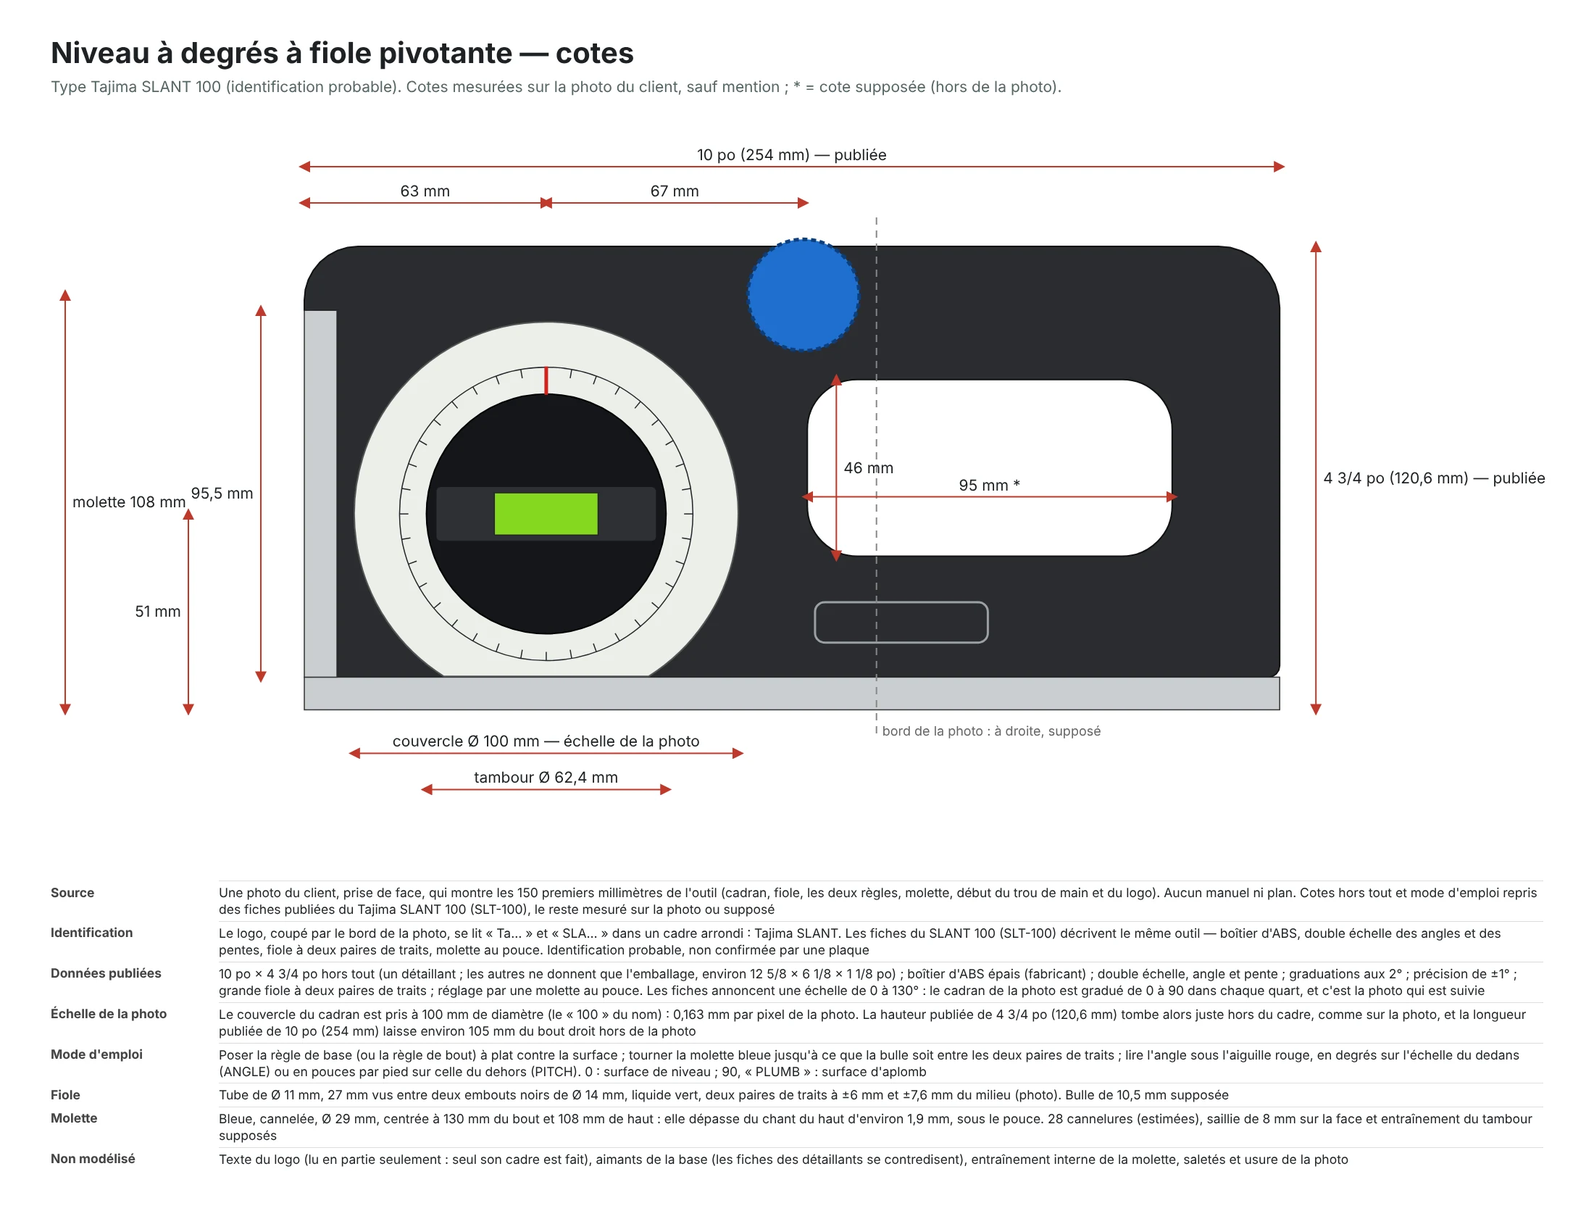
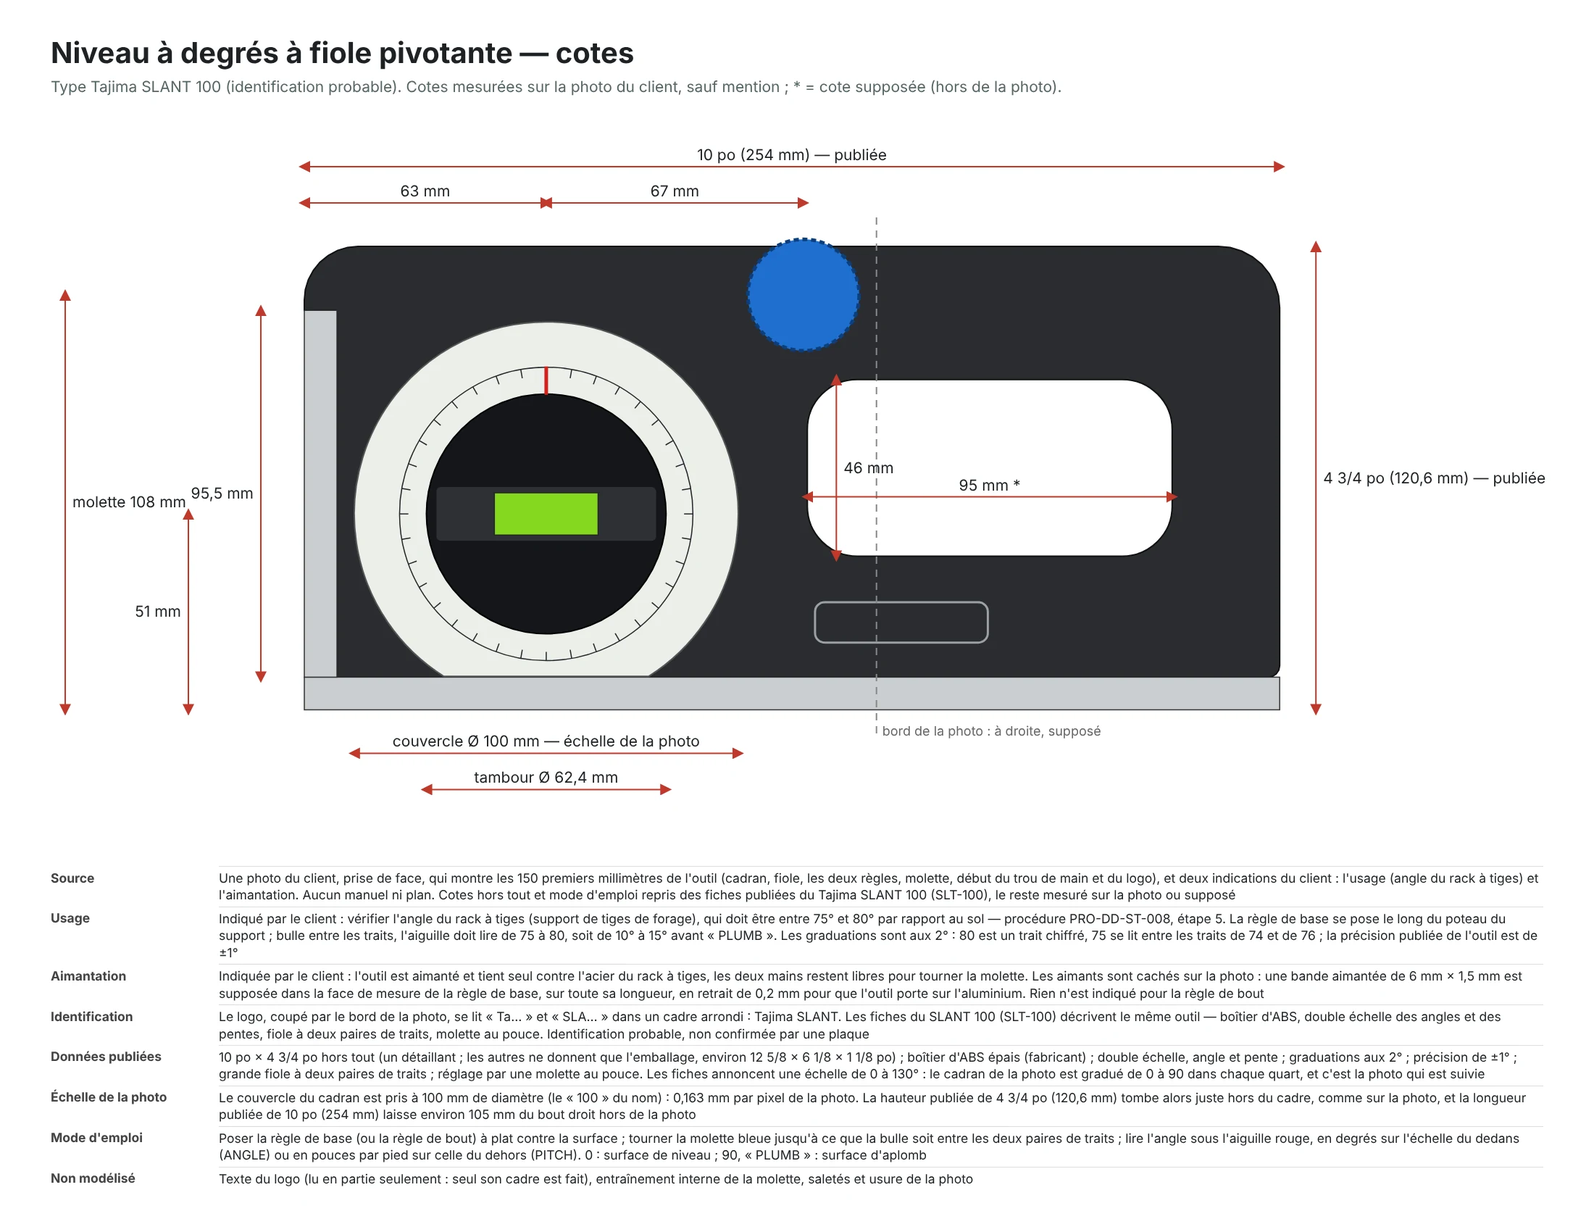
Niveau à degrés : usage au rack à tiges (75° à 80°) et base aimantée
Deux indications du client. L'outil sert à vérifier l'angle du rack à tiges
(support de tiges de forage), qui doit être entre 75° et 80° — la plage de la
procédure PRO-DD-ST-008, étape 5. Et il est aimanté : il tient seul contre
l'acier du rack.

Modèle : bande aimantée de 6 × 1,5 mm dans un logement de la face de mesure de
la règle de base (repère 9), en retrait de 0,2 mm ; l'aimantation est indiquée
par le client, la forme et la place sont supposées (cachées sur la photo) et
signalées. RACK (75, 80, pose à 78°) et verdictRack() dans le modèle.

Fonction « Mesurer » : « Poser sur le rack à tiges » penche la surface à 78°,
comme le support de la scène d'installation ; panneau ouvert, la plage est en
vert sur le cadran, bordée de rouge pâle (repère visuel, absent de l'outil) ;
bulle centrée, le panneau dit si l'angle lu est conforme, trop couché ou trop
debout, et reste neutre quand l'outil n'est manifestement pas sur le rack ;
lien vers la procédure du rack ; mode d'emploi récrit pour le rack.

Fiche (usage, aimantation, repère 9), page des cotes P02, index, README et
contrôles (plage du rack, bande en retrait de la face de mesure).

Claude-Session: https://claude.ai/code/session_015N4WsssJZ8LhHWCi7yY3si

Changed region(s): [[0.1236, 0.6859, 0.9582, 0.9665], [0.0309, 0.6859, 0.0927, 0.9665]]

diff --git a/src/ui/features/niveau-degres.js b/src/ui/features/niveau-degres.js
@@ -10,15 +10,26 @@
 //   tourne la molette à la place de l'utilisateur.
 // - Sur un téléphone, « Suivre le téléphone » lit ses capteurs d'inclinaison : le téléphone
 //   tenu debout remplace l'outil, sa tranche du bas tient lieu de règle de base.
+// - Usage indiqué par le client : vérifier l'angle du rack à tiges, entre 75° et 80°
+//   (procédure PRO-DD-ST-008 du support de tiges de forage, étape 5). Panneau ouvert, la
+//   plage est en vert sur le cadran (repère visuel, absent de l'outil) et le panneau dit si
+//   l'angle lu convient ; « Poser sur le rack » penche la surface comme le support de la
+//   scène d'installation. L'outil est aimanté : il tient seul contre l'acier du rack.
 //
 // Les cotes, la place de la bulle et l'angle lu viennent du modèle
 // (src/models/niveau-a-degres/index.js) ; ce module ne fait que l'interface.
 import * as THREE from 'three';
 import './niveau-degres.css';
-import { L, T, CADRAN, MOLETTE, FIOLE, RAPPORT, lecture, bulle, placerBulle, regler, mobiles } from '../../models/niveau-a-degres/index.js';
+import { L, T, CADRAN, MOLETTE, FIOLE, RAPPORT, RACK, lecture, bulle, placerBulle, regler, mobiles, verdictRack } from '../../models/niveau-a-degres/index.js';
 
 const ID = 'niveau-degres';
 const EQ = 'niveau-a-degres';
+/** Équipement et page de la procédure du rack à tiges (étape 5 : vérifier l'angle). */
+const RACK_EQ = 'rack-tiges-dd';
+const RACK_PAGE = '#rack-tiges-dd.P02';
+const PLAGE = `${RACK.min}° à ${RACK.max}°`;
+/** Sous cet angle lu (degrés), l'outil n'est manifestement pas sur le rack : le verdict reste neutre. */
+const LOIN = 45;
 const MM = 0.001;
 const RAD = Math.PI / 180;
 /** La bulle est entre les traits à moins de cet écart du milieu (mm) : jeu entre la bulle et la paire de traits du dedans. */
@@ -47,6 +58,7 @@ export default {
     let racine = null; // modèle affiché (racine), ou null hors de la page du niveau
     let pieces = null; // pièces mobiles : { tambour, fiole, molette, bulle }
     let surface = null; // bande de la surface mesurée
+    let zone = null; // plage du rack à tiges, en vert sur le cadran
     let eclate = 0;
     let bx = 0; // place affichée de la bulle le long de la fiole (mm)
     let image = 0; // requestAnimationFrame en cours
@@ -69,6 +81,7 @@ export default {
         <b class="nvd-deg mono" data-nvd="deg">0,0°</b>
         <span class="nvd-pente" data-nvd="pente"></span>
         <span class="nvd-bulle" data-nvd="bulle" role="status"></span>
+        <span class="nvd-rack" data-nvd="rack"></span>
       </div>
       <div class="nvd-champ" data-nvd="champ-pente">
         <label for="nvd-pente">Pente de la surface mesurée</label>
@@ -87,6 +100,7 @@ export default {
       <div class="nvd-actions">
         <button type="button" class="btn primary" data-nvd="centrer">Centrer la bulle</button>
         <button type="button" class="btn" data-nvd="face">Cadran de face</button>
+        <button type="button" class="btn" data-nvd="poser" title="Pencher la surface à ${RACK.pose}°, comme le support de tiges installé">Poser sur le rack à tiges</button>
         <button type="button" class="btn" data-nvd="zero">Remettre à zéro</button>
       </div>
       <div class="nvd-capteur" data-nvd="zone-capteur" hidden>
@@ -94,10 +108,12 @@ export default {
         <p data-nvd="capteur-note">Tenez le téléphone debout, sa tranche du bas posée sur la surface : il remplace la règle de base.</p>
       </div>
       <ol class="nvd-emploi">
-        <li>Posez la règle de base sur la surface : ici, penchez la surface.</li>
+        <li>Posez la règle de base sur le poteau du rack à tiges : elle est aimantée, l'outil tient seul contre l'acier et les deux mains restent libres. Ici, penchez la surface ou choisissez « Poser sur le rack à tiges ».</li>
         <li>Tournez la molette bleue jusqu'à ce que la bulle soit entre les deux paires de traits. Dans la vue 3D, tirez la molette ou la fiole.</li>
         <li>Lisez l'angle sous l'aiguille rouge : degrés au-dedans (ANGLE), pouces par pied au-dehors (PITCH). 0 : de niveau ; 90, « PLUMB » : d'aplomb.</li>
-      </ol>`;
+        <li>Rack à tiges : l'aiguille doit être dans la zone verte, entre ${RACK.min}° et ${RACK.max}° (graduations aux 2° : ${RACK.min} se lit entre 74 et 76).</li>
+      </ol>
+      <p class="nvd-source" data-nvd="source">Plage de ${PLAGE} : procédure du support de tiges de forage, étape 5. <button type="button" class="nvd-lien" data-nvd="procedure">Voir la procédure du rack à tiges ›</button></p>`;
     const $ = (nom) => el.querySelector(`[data-nvd="${nom}"]`);
     const cPente = el.querySelector('#nvd-pente');
     const cCadran = el.querySelector('#nvd-cadran');
@@ -117,6 +133,18 @@ export default {
       etatBulle.textContent = plat ? 'Outil à plat : redressez-le pour mesurer une pente.'
         : centree ? `Bulle entre les traits : la surface est à ${fr(l.deg)}°.`
           : `Bulle ${Math.abs(b.x) >= b.course - 0.01 ? 'en butée' : 'décentrée'} : tournez la molette (écart de ${fr(Math.abs(b.ecart))}°).`;
+      // Rack à tiges : l'angle ne vaut que bulle entre les traits.
+      const rack = $('rack');
+      // Loin de la plage (outil à l'horizontale, autre mesure) : pas d'alerte, l'outil n'est pas sur le rack.
+      const v = !centree || plat ? 'attente' : l.deg < LOIN ? 'loin' : verdictRack(l.deg);
+      rack.dataset.etat = v;
+      rack.textContent = `Rack à tiges, ${PLAGE} : ${{
+        attente: 'centrez la bulle pour vérifier',
+        loin: 'posez l\'outil sur le poteau du rack',
+        conforme: `conforme (${fr(l.deg)}°)`,
+        couche: `trop couché (${fr(l.deg)}°, moins de ${RACK.min}°)`,
+        debout: `trop debout (${fr(l.deg)}°, plus de ${RACK.max}°)`,
+      }[v]}.`;
       if (document.activeElement !== cPente) cPente.value = String(etat.pente);
       if (document.activeElement !== nPente) nPente.value = String(Math.round(etat.pente * 10) / 10);
       if (document.activeElement !== cCadran) cCadran.value = String(etat.cadran);
@@ -137,6 +165,41 @@ export default {
       m.raycast = () => {}; // ni survol ni clic
       return m;
     }
+
+    /**
+     * Plage du rack à tiges sur le cadran : secteurs verts translucides aux quatre endroits où
+     * l'aiguille lit de 75° à 80° (de part et d'autre de chaque « PLUMB »), bordés de rouge pâle
+     * (trop couché, trop debout). Repère visuel posé sur le couvercle, absent de l'outil ;
+     * montré tant que le panneau de mesure est ouvert.
+     */
+    function creerZone() {
+      const g = new THREE.Group();
+      const teinte = (color, opacity) => new THREE.MeshBasicMaterial({ color, transparent: true, opacity, depthWrite: false, toneMapped: false, side: THREE.DoubleSide });
+      const vert = teinte(0x1fb85a, 0.5), rouge = teinte(0xe03a2e, 0.2);
+      const r0 = (CADRAN.rTrou + 0.4) * MM, r1 = (CADRAN.rArc + 4.6) * MM;
+      /** Secteurs où l'aiguille lit de v0 à v1 : la lecture v est à l'angle polaire 90 − v et à ses trois symétriques. */
+      const secteurs = (v0, v1, mat) => {
+        for (const debut of [90 - v1, 90 + v0, 270 - v1, 270 + v0]) {
+          const m = new THREE.Mesh(new THREE.RingGeometry(r0, r1, 12, 1, debut * RAD, (v1 - v0) * RAD), mat);
+          m.raycast = () => {}; // ni survol ni clic
+          g.add(m);
+        }
+      };
+      // Comme dans la scène d'installation du rack : permis en vert, trop couché et trop debout en rouge pâle.
+      secteurs(RACK.min, RACK.max, vert);
+      secteurs(RACK.min - 10, RACK.min, rouge);
+      secteurs(RACK.max, 90, rouge);
+      const c = CADRAN.couvercle;
+      g.position.set(CADRAN.x * MM, CADRAN.y * MM, (T / 2 + c.jour + c.ep + 0.15) * MM);
+      g.userData.stepOnly = true; // hors du cadrage du modèle
+      g.visible = false;
+      return g;
+    }
+    const montrerZone = () => {
+      if (!zone) return;
+      const v = ctx.ui.sidePanel.has(ID);
+      if (zone.visible !== v) { zone.visible = v; ctx.viewer.invalidate(); }
+    };
 
     /** Pose le modèle selon l'état ; la bulle suit en glissant (boucle). */
     function poser({ sec = false } = {}) {
@@ -203,7 +266,9 @@ export default {
       pieces = mobiles(racine);
       if (!pieces.tambour || !pieces.fiole || !pieces.bulle) { racine = null; return; }
       surface = creerSurface();
-      racine.add(surface);
+      zone = creerZone();
+      racine.add(surface, zone);
+      montrerZone();
       poser({ sec: true });
     }
 
@@ -211,7 +276,7 @@ export default {
       if (image) cancelAnimationFrame(image);
       image = 0;
       anim = null;
-      racine = pieces = surface = null;
+      racine = pieces = surface = zone = null;
       capteur(false);
     }
 
@@ -228,6 +293,15 @@ export default {
     cCadran.addEventListener('input', () => { anim = null; etat.cadran = Number(cCadran.value); poser(); });
     $('centrer').addEventListener('click', centrer);
     $('face').addEventListener('click', face);
+    // Rack à tiges : la surface penchée comme le support installé ; il reste à centrer la bulle et à lire.
+    $('poser').addEventListener('click', () => {
+      anim = null;
+      if (etat.capteur) capteur(false);
+      etat.pente = RACK.pose;
+      poser();
+      if (actif()) ctx.viewer.frame();
+    });
+    $('procedure').addEventListener('click', () => ctx.go(RACK_PAGE));
     $('zero').addEventListener('click', () => {
       anim = null;
       etat.pente = 0;
@@ -377,9 +451,15 @@ export default {
       onClick: () => (ctx.ui.sidePanel.owner === ID ? ctx.ui.sidePanel.close() : ouvrir()),
     });
     bouton.hidden = true;
-    ctx.on('sidepanel', ({ open, owner }) => { if (owner === ID) bouton.setAttribute('aria-pressed', String(open)); });
+    ctx.on('sidepanel', ({ open, owner }) => {
+      if (owner === ID) bouton.setAttribute('aria-pressed', String(open));
+      // Panneau ouvert, replié, recouvert par la fiche ou repris par un autre mode : la zone verte suit.
+      montrerZone();
+    });
     ctx.on('view-state', ({ explode }) => { eclate = explode || 0; });
     ctx.on('equipment', ({ id }) => {
+      // Le lien vers la procédure n'est offert que si le rack à tiges est au catalogue.
+      $('source').hidden = !ctx.index.some((e) => e.id === RACK_EQ);
       if (id === EQ) return;
       etat.pente = 0;
       etat.cadran = 0;

diff --git a/src/models/niveau-a-degres/index.js b/src/models/niveau-a-degres/index.js
@@ -13,9 +13,16 @@
 // publiée). Tout le bout droit (fin du trou de main, coins), l'épaisseur, le
 // dos et l'entraînement du tambour par la molette sont supposés et signalés.
 //
+// Indiqué par le client : l'outil sert à vérifier l'angle du support de tiges
+// de forage (rack à tiges, équipement « rack-tiges-dd »), qui doit être entre
+// 75° et 80° (procédure PRO-DD-ST-008, étape 5), et il est aimanté : il tient
+// seul contre l'acier du rack. Les aimants sont cachés sur la photo : une bande
+// aimantée dans la face de mesure de la règle de base est supposée.
+//
 // L'outil fonctionne (src/ui/features/niveau-degres.js) : regler() pose
 // l'outil sur une pente, tourne le tambour et la molette ; bulle() donne la
-// place de la bulle dans la fiole ; lecture() l'angle sous l'aiguille.
+// place de la bulle dans la fiole ; lecture() l'angle sous l'aiguille ;
+// verdictRack() dit si l'angle lu convient au rack à tiges.
 //
 // Repère de l'outil, en millimètres : x le long de la règle de base (0 au bout
 // du cadran), y vers le haut (0 sous la face de mesure), z en travers (0 au
@@ -37,6 +44,18 @@ export const H = 4.75 * IN;
 export const T = 25;
 /** Règles d'aluminium : largeur vue de face (photo), rainures près de l'arête (place et taille estimées). */
 export const REGLE = { ep: 8.5, rainures: [1.4, 2.6, 3.8], creux: 0.45, haut: 104 };
+/**
+ * Bande aimantée de la règle de base : l'aimantation est indiquée par le client,
+ * la forme, la taille et la place sont supposées (cachées sur la photo). En
+ * retrait de la face de mesure, pour que l'outil porte sur l'aluminium.
+ */
+export const AIMANT = { large: 6, ep: 1.5, retrait: 0.2 };
+/**
+ * Usage indiqué par le client : angle du rack à tiges, entre 75° et 80° par
+ * rapport au sol (procédure PRO-DD-ST-008, étape 5) ; `pose` : angle du support
+ * dans la scène d'installation du site (src/models/rack-tiges-dd/support.js).
+ */
+export const RACK = { min: 75, max: 80, pose: 78 };
 /** Coins du boîtier : au-dessus de la règle de bout (photo), puis ceux du bout droit (supposés). */
 export const COINS = { bout: 14, haut: 16, bas: 3 };
 /**
@@ -266,15 +285,18 @@ function boitier(S) {
  * Section d'une règle (mm) : u en travers de l'épaisseur, v depuis la face de
  * mesure ; trois rainures près de l'arête, sur les deux faces (dos supposé pareil).
  */
-function sectionRegle() {
+function sectionRegle(aimant = false) {
   const d = T / 2, c = REGLE.creux, l = 0.3;
   const face = (s) => REGLE.rainures.flatMap((v) => [[s * d, v - l], [s * (d - c), v - l / 3], [s * (d - c), v + l / 3], [s * d, v + l]]);
-  return [[-d, 0], [d, 0], ...face(1), [d, REGLE.ep], [-d, REGLE.ep], ...face(-1).reverse()];
+  // Logement de la bande aimantée, au milieu de la face de mesure.
+  const a = AIMANT.large / 2;
+  const logement = aimant ? [[-a, 0], [-a, AIMANT.ep], [a, AIMANT.ep], [a, 0]] : [];
+  return [[-d, 0], ...logement, [d, 0], ...face(1), [d, REGLE.ep], [-d, REGLE.ep], ...face(-1).reverse()];
 }
 
 /** Repère 2 : règle de base, sur toute la longueur ; sa face du dessous est la face de mesure. */
 function regleBase(S) {
-  const m = S.extrude(mm(sectionRegle()), L * MM, alu());
+  const m = S.extrude(mm(sectionRegle(true)), L * MM, alu());
   // Section (u, v) → (z, y) ; extrusion le long de x.
   m.quaternion.setFromRotationMatrix(new THREE.Matrix4().makeBasis(new THREE.Vector3(0, 0, -1), new THREE.Vector3(0, 1, 0), new THREE.Vector3(1, 0, 0)));
   m.position.set((L / 2) * MM, 0, 0);
@@ -289,6 +311,12 @@ function regleBout(S) {
   m.quaternion.setFromRotationMatrix(new THREE.Matrix4().makeBasis(new THREE.Vector3(0, 0, 1), new THREE.Vector3(1, 0, 0), new THREE.Vector3(0, 1, 0)));
   m.position.set(0, (REGLE.ep + long / 2) * MM, 0);
   return S.group(m);
+}
+
+/** Repère 9 : bande aimantée, dans son logement sous la règle de base (forme supposée). */
+function aimant(S) {
+  const a = AIMANT, h = a.ep - a.retrait;
+  return S.group(S.box(L * MM, h * MM, (a.large - 0.2) * MM, 'blackOxide', { pos: P(L / 2, a.retrait + h / 2, 0) }));
 }
 
 /** Repère 4 : cadran fixe, plaque blanche imprimée, à méplat, autour du tambour (origine au centre du cadran). */
@@ -391,6 +419,16 @@ export function lecture(cadran) {
 }
 
 /**
+ * Angle lu (degrés, 0 à 90) comparé à la plage du rack à tiges (RACK) :
+ * 'conforme', 'couche' (moins de 75° : trop couché) ou 'debout' (plus de 80°).
+ * La plage est fermée : 75° et 80° conviennent.
+ */
+export function verdictRack(deg) {
+  const e = 1e-9;
+  return deg < RACK.min - e ? 'couche' : deg > RACK.max + e ? 'debout' : 'conforme';
+}
+
+/**
  * Place de repos de la bulle (mm, repère de la fiole : x le long du tube) pour
  * la verticale `haut` ([x, y, z] unitaire, repère de l'outil) et le tambour
  * tourné de `cadran` degrés. La bulle monte le long de la paroi en tonneau
@@ -454,6 +492,7 @@ export function P01(api) {
   api.part('1', boitier(S), [0, 0, 0]);
   api.part('2', regleBase(S), [0, -0.03, 0]);
   api.part('3', regleBout(S), [-0.03, 0, 0]);
+  api.part('9', aimant(S), [0, -0.055, 0]);
   // Pièces concentriques : les bulles de repère sont écartées du milieu, où se lit la bulle de la fiole.
   const pol = (r, a, z) => ({ labelAt: P(r * Math.cos(a * RAD), r * Math.sin(a * RAD), z) });
   // Le cadran est sous le couvercle : sa bulle de repère se tient juste au-dessus de la glace, sans quoi elle serait masquée.

diff --git a/src/ui/features/niveau-degres.css b/src/ui/features/niveau-degres.css
@@ -8,6 +8,9 @@
 .nvd-pente { font-size: 15px; font-variant-numeric: tabular-nums; }
 .nvd-bulle { margin-top: 6px; padding: 6px 9px; border-radius: 7px; font-size: 13px; background: var(--warn-soft); color: var(--warn); }
 .nvd-bulle[data-etat='ok'] { background: color-mix(in srgb, #1f9d55 16%, var(--surface)); color: color-mix(in srgb, #1f9d55 72%, var(--ink)); }
+.nvd-rack { margin-top: 4px; padding: 6px 9px; border-radius: 7px; font-size: 13px; background: var(--surface); color: var(--muted); border: 1px solid var(--line); }
+.nvd-rack[data-etat='conforme'] { border-color: transparent; background: color-mix(in srgb, #1f9d55 16%, var(--surface)); color: color-mix(in srgb, #1f9d55 72%, var(--ink)); font-weight: 600; }
+.nvd-rack[data-etat='couche'], .nvd-rack[data-etat='debout'] { border-color: transparent; background: var(--error-soft); color: var(--error); font-weight: 600; }
 .nvd-champ { display: grid; gap: 4px; }
 .nvd-champ label { font-weight: 600; }
 .nvd-champ.nvd-inactif { opacity: 0.5; }
@@ -24,11 +27,13 @@
 .nvd-capteur .btn[aria-pressed='true'] { border-color: var(--accent); color: var(--accent); }
 .nvd-capteur p { margin: 0; font-size: 13px; color: var(--muted); }
 .nvd-emploi { margin: 0; padding: 12px 0 0 20px; border-top: 1px solid var(--line); display: grid; gap: 6px; font-size: 13px; color: var(--muted); }
+.nvd-source { margin: 0; font-size: 13px; color: var(--muted); }
+.nvd-lien { padding: 0; border: 0; background: none; color: var(--accent); font: inherit; cursor: pointer; text-decoration: underline; }
 /* Volet bas (téléphone, scène étroite) : lecture sur une ligne, pour garder les curseurs sous le pouce. */
 @container stage (max-width: 719px) {
   .nvd { gap: 10px; }
   .nvd-lecture { grid-template-columns: auto 1fr; align-items: baseline; column-gap: 10px; padding: 8px 10px; }
   .nvd-titre { display: none; }
   .nvd-deg { font-size: 28px; }
-  .nvd-bulle { grid-column: 1 / -1; margin-top: 2px; padding: 4px 8px; }
+  .nvd-bulle, .nvd-rack { grid-column: 1 / -1; margin-top: 2px; padding: 4px 8px; }
 }

diff --git a/README.md b/README.md
@@ -727,7 +727,12 @@ pièces (numéro, quantité, page du manuel).
   détaillant), boîtier d'ABS, mode d'emploi. Supposé et signalé : tout le bout
   droit hors de la photo, l'épaisseur de 25 mm, le dos, la profondeur du
   tambour, la saillie de la molette et son entraînement (3 tours pour 1), la
-  courbure de la fiole. Le texte du logo et les aimants ne sont pas faits.
+  courbure de la fiole. Le texte du logo n'est pas fait. Indiqué par le client :
+  l'outil sert à vérifier l'angle du rack à tiges (`rack-tiges-dd`), qui doit
+  être entre 75° et 80° (procédure PRO-DD-ST-008, étape 5), et il est aimanté
+  — il tient seul contre l'acier du rack ; les aimants étant cachés sur la
+  photo, une bande aimantée de 6 × 1,5 mm est supposée dans la face de mesure
+  de la règle de base (repère 9), en retrait de 0,2 mm.
   **L'outil fonctionne** (`src/ui/features/niveau-degres.js`, outil « Mesurer »
   de la vue 3D) : la surface mesurée se penche (l'outil pivote avec elle), la
   molette ou la fiole se tirent dans la vue 3D ou se règlent au curseur, la
@@ -735,8 +740,13 @@ pièces (numéro, quantité, page du manuel).
   l'aiguille (degrés, pouces par pied, pour cent) ; « Centrer la bulle » tourne
   la molette, « Cadran de face » cadre le cadran ; sur un téléphone, « Suivre
   le téléphone » lit ses capteurs d'inclinaison (le téléphone tenu debout
-  remplace l'outil). La place de la bulle, la pose sur la pente et la lecture
-  sont dans le modèle (`bulle()`, `regler()`, `lecture()` de
+  remplace l'outil). Rack à tiges : « Poser sur le rack à tiges » penche la
+  surface à 78°, comme le support de la scène d'installation ; panneau ouvert,
+  la plage de 75° à 80° est en vert sur le cadran, bordée de rouge pâle (repère
+  visuel, absent de l'outil), et le panneau dit, bulle centrée, si l'angle lu
+  est conforme, trop couché ou trop debout, avec un lien vers la procédure du
+  rack. La place de la bulle, la pose sur la pente, la lecture et le verdict
+  sont dans le modèle (`bulle()`, `regler()`, `lecture()`, `verdictRack()` de
   `src/models/niveau-a-degres/index.js`), contrôlées par
   `scripts/check-niveau-degres.mjs` (`npm run check:niveau`). La fiche et la
   page des cotes (P02, vue de face) sont écrites par
